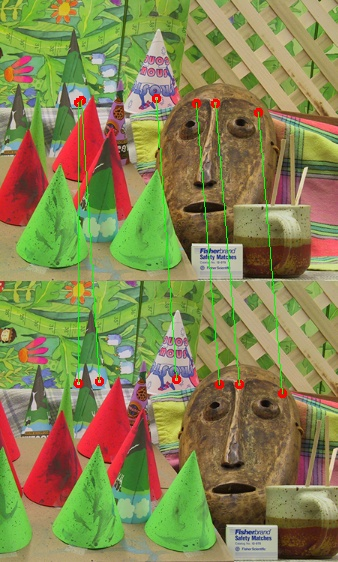
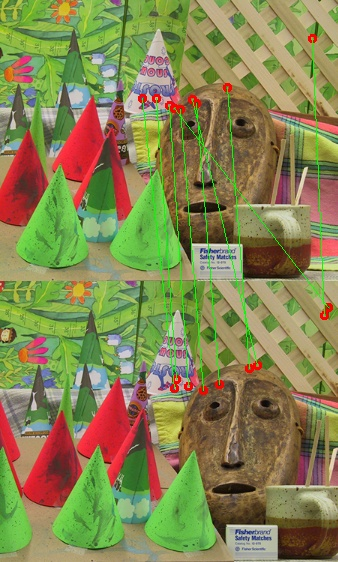
updated Fundamental Matrix

diff --git a/inc/stereoVisionFunc.hpp b/inc/stereoVisionFunc.hpp
@@ -65,8 +65,34 @@ class StereoVision {
                 points1_2f.push_back(Point2f(points1[i].x, points1[i].y));
                 points2_2f.push_back(Point2f(points2[i].x, points2[i].y));
             }
-            // find the fundamental matrix using the eight corresponding points
-            fundamentalMatrix = findFundamentalMat(points1_2f, points2_2f, FM_8POINT);
+            // construct the fundamental matrix empty
+            fundamentalMatrix = Mat::zeros(3, 3, CV_64F);
+            // create the A matrix to multiply with vectorized fundamental matrix
+            Mat A = Mat::zeros(8, 9, CV_64F);
+            // fill the A matrix
+            for (int i = 0; i < 8; i++) {
+                A.at<double>(i, 0) = points1_2f[i].x * points2_2f[i].x;
+                A.at<double>(i, 1) = points1_2f[i].x * points2_2f[i].y;
+                A.at<double>(i, 2) = points1_2f[i].x;
+                A.at<double>(i, 3) = points1_2f[i].y * points2_2f[i].x;
+                A.at<double>(i, 4) = points1_2f[i].y * points2_2f[i].y;
+                A.at<double>(i, 5) = points1_2f[i].y;
+                A.at<double>(i, 6) = points2_2f[i].x;
+                A.at<double>(i, 7) = points2_2f[i].y;
+                A.at<double>(i, 8) = 1;
+            }
+            // find the SVD of A
+            SVD svd(A.t() * A);
+            // get the last column of V
+            Mat V = svd.vt;
+            // reshape the last column of V into a 3x3 matrix
+            Mat fundamentalMatrix_reshaped = V.row(8).reshape(0, 3);
+            // print shape of fundamental matrix reshaped
+            cout<<"Shape of fundamental matrix reshaped: "<<fundamentalMatrix_reshaped.size()<<endl;
+            // normalize the fundamental matrix
+            fundamentalMatrix = fundamentalMatrix_reshaped / fundamentalMatrix_reshaped.at<double>(2, 2);
+            // print the fundamental matrix
+            cout<<"Fundamental Matrix:"<<endl;
             // return the fundamental matrix
             cout<<"<<< estimateFundamentalMatrix() returned"<<endl;
             return fundamentalMatrix;
@@ -111,7 +137,7 @@ class StereoVision {
                     double distance1 = abs(point2.dot(epipolarLine1)) / sqrt(pow(epipolarLine1.at<double>(0, 0), 2) + pow(epipolarLine1.at<double>(1, 0), 2));
                     double distance2 = abs(point1.dot(epipolarLine2)) / sqrt(pow(epipolarLine2.at<double>(0, 0), 2) + pow(epipolarLine2.at<double>(1, 0), 2));
                     // if the distance is less than 0.1, then the corresponding points are inliers
-                    if (distance1 < 0.3 && distance2 < 0.3) {
+                    if (distance1 < 0.75 && distance2 < 0.75) {
                         inliers++;
                         tempBestCorrespondences.push_back(correspondingPoints[j]);
                     }
@@ -144,6 +170,8 @@ class StereoVision {
             int minDisparityHorizontal = 5;
             int minDisparityVertical = 5;
             int windowSize = 5;
+            // print the fundamental matrix
+            cout<<"Fundamental Matrix: "<<endl<<bestFundamentalMatrix<<endl;
             // pad the images with zeros
             Mat img1_padded = Mat::zeros(img1.rows + 2 * windowSize, img1.cols + 2 * windowSize, CV_8UC1);
             Mat img2_padded = Mat::zeros(img2.rows + 2 * windowSize, img2.cols + 2 * windowSize, CV_8UC1);
@@ -153,8 +181,8 @@ class StereoVision {
             Mat disparityMap = Mat::zeros(img1.rows, img1.cols, CV_8UC1);
             // create a Mat object to store the epipolar line of the second image
             vector<Point2d> epipolarLine2;
-            for (int i = 0; i < 1; i++) {
-                for (int j = 0; j < 1; j++) {
+            for (int i = 200; i < 201; i++) {
+                for (int j = 200; j < 201; j++) {
                     Mat point1 = (Mat_<double>(3, 1) << i, j, 1);
                     // extract a 5x5 window around the pixel
                     Mat window1 = img1_padded(Rect(j, i, 5, 5));
